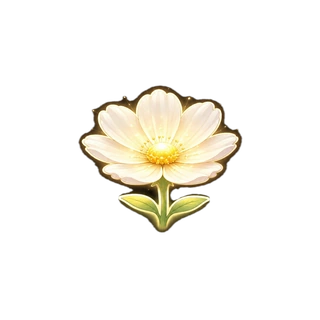
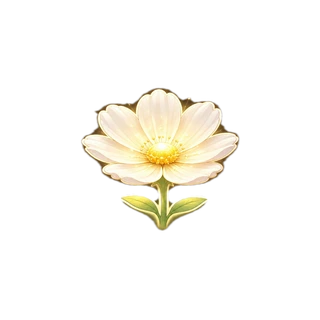
Fix dark outline on f4 flower — reprocess with aggressive bg removal
f4 (cream cosmos) had 94.8% dark edge pixels causing a visible black
line around it. Raised removal threshold to vmax<65, increased dilation
to 9 iterations and feather sigma to 2.5. Dark edge pixels dropped to
3.4%. Bumps flower cache to v8.

Claude-Session: https://claude.ai/code/session_01S2gekPUJooPMvPKjFjtUcr

diff --git a/src/screens/Vredepad.jsx b/src/screens/Vredepad.jsx
@@ -16,7 +16,7 @@ const PROMISE_PLANTS = ['🌱', '🌻', '🌾', '🌿', '🌸', '🍇']
 // 9 glowing illustrated blooms (f0–f8.webp, transparent bg)
 const flowerImages = Array.from({ length: 9 }, (_, i) => {
   const img = new Image()
-  img.src = `/flowers/f${i}.webp?v=7`
+  img.src = `/flowers/f${i}.webp?v=8`
   return img
 })
 
